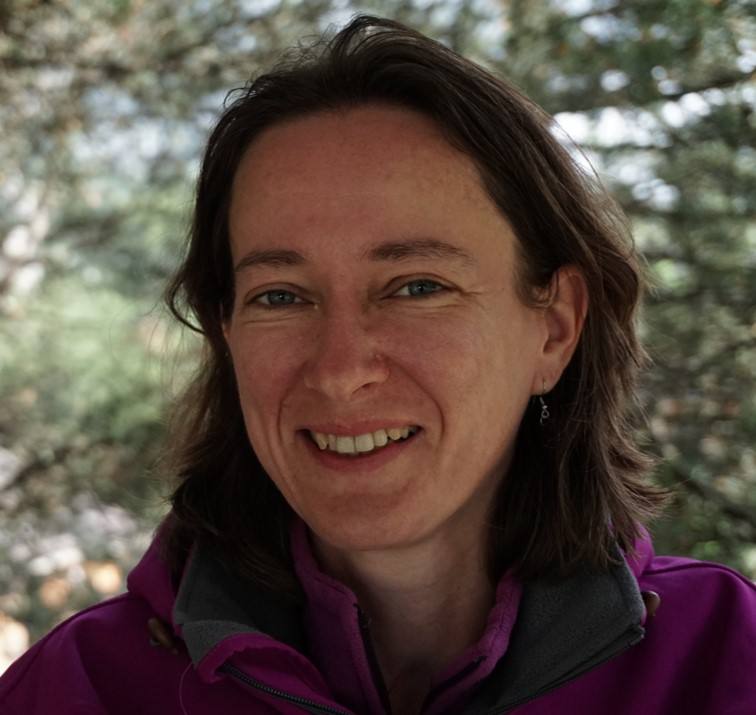
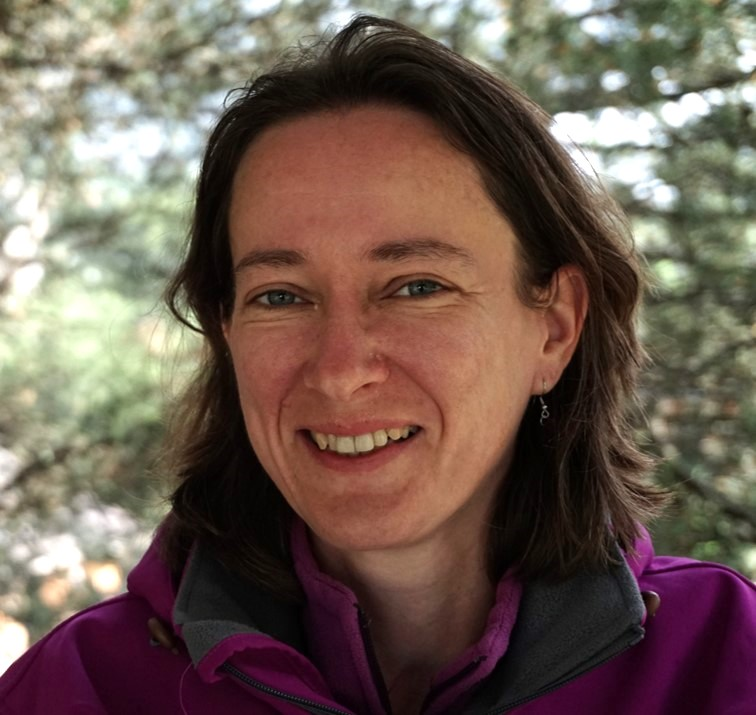
Updates page5 n3

diff --git a/index.html b/index.html
@@ -249,7 +249,7 @@
             
             <div class="hero-content">
                 <div class="portrait">
-                    <img src="images/intro.png" alt="Jekaterina Truskina">
+                    <img src="images/Picture1.jpg" alt="Jekaterina Truskina">
                 </div>
                 <div class="intro-text">
                     <h1 class="hero-name">Jekaterina Truskina</h1>